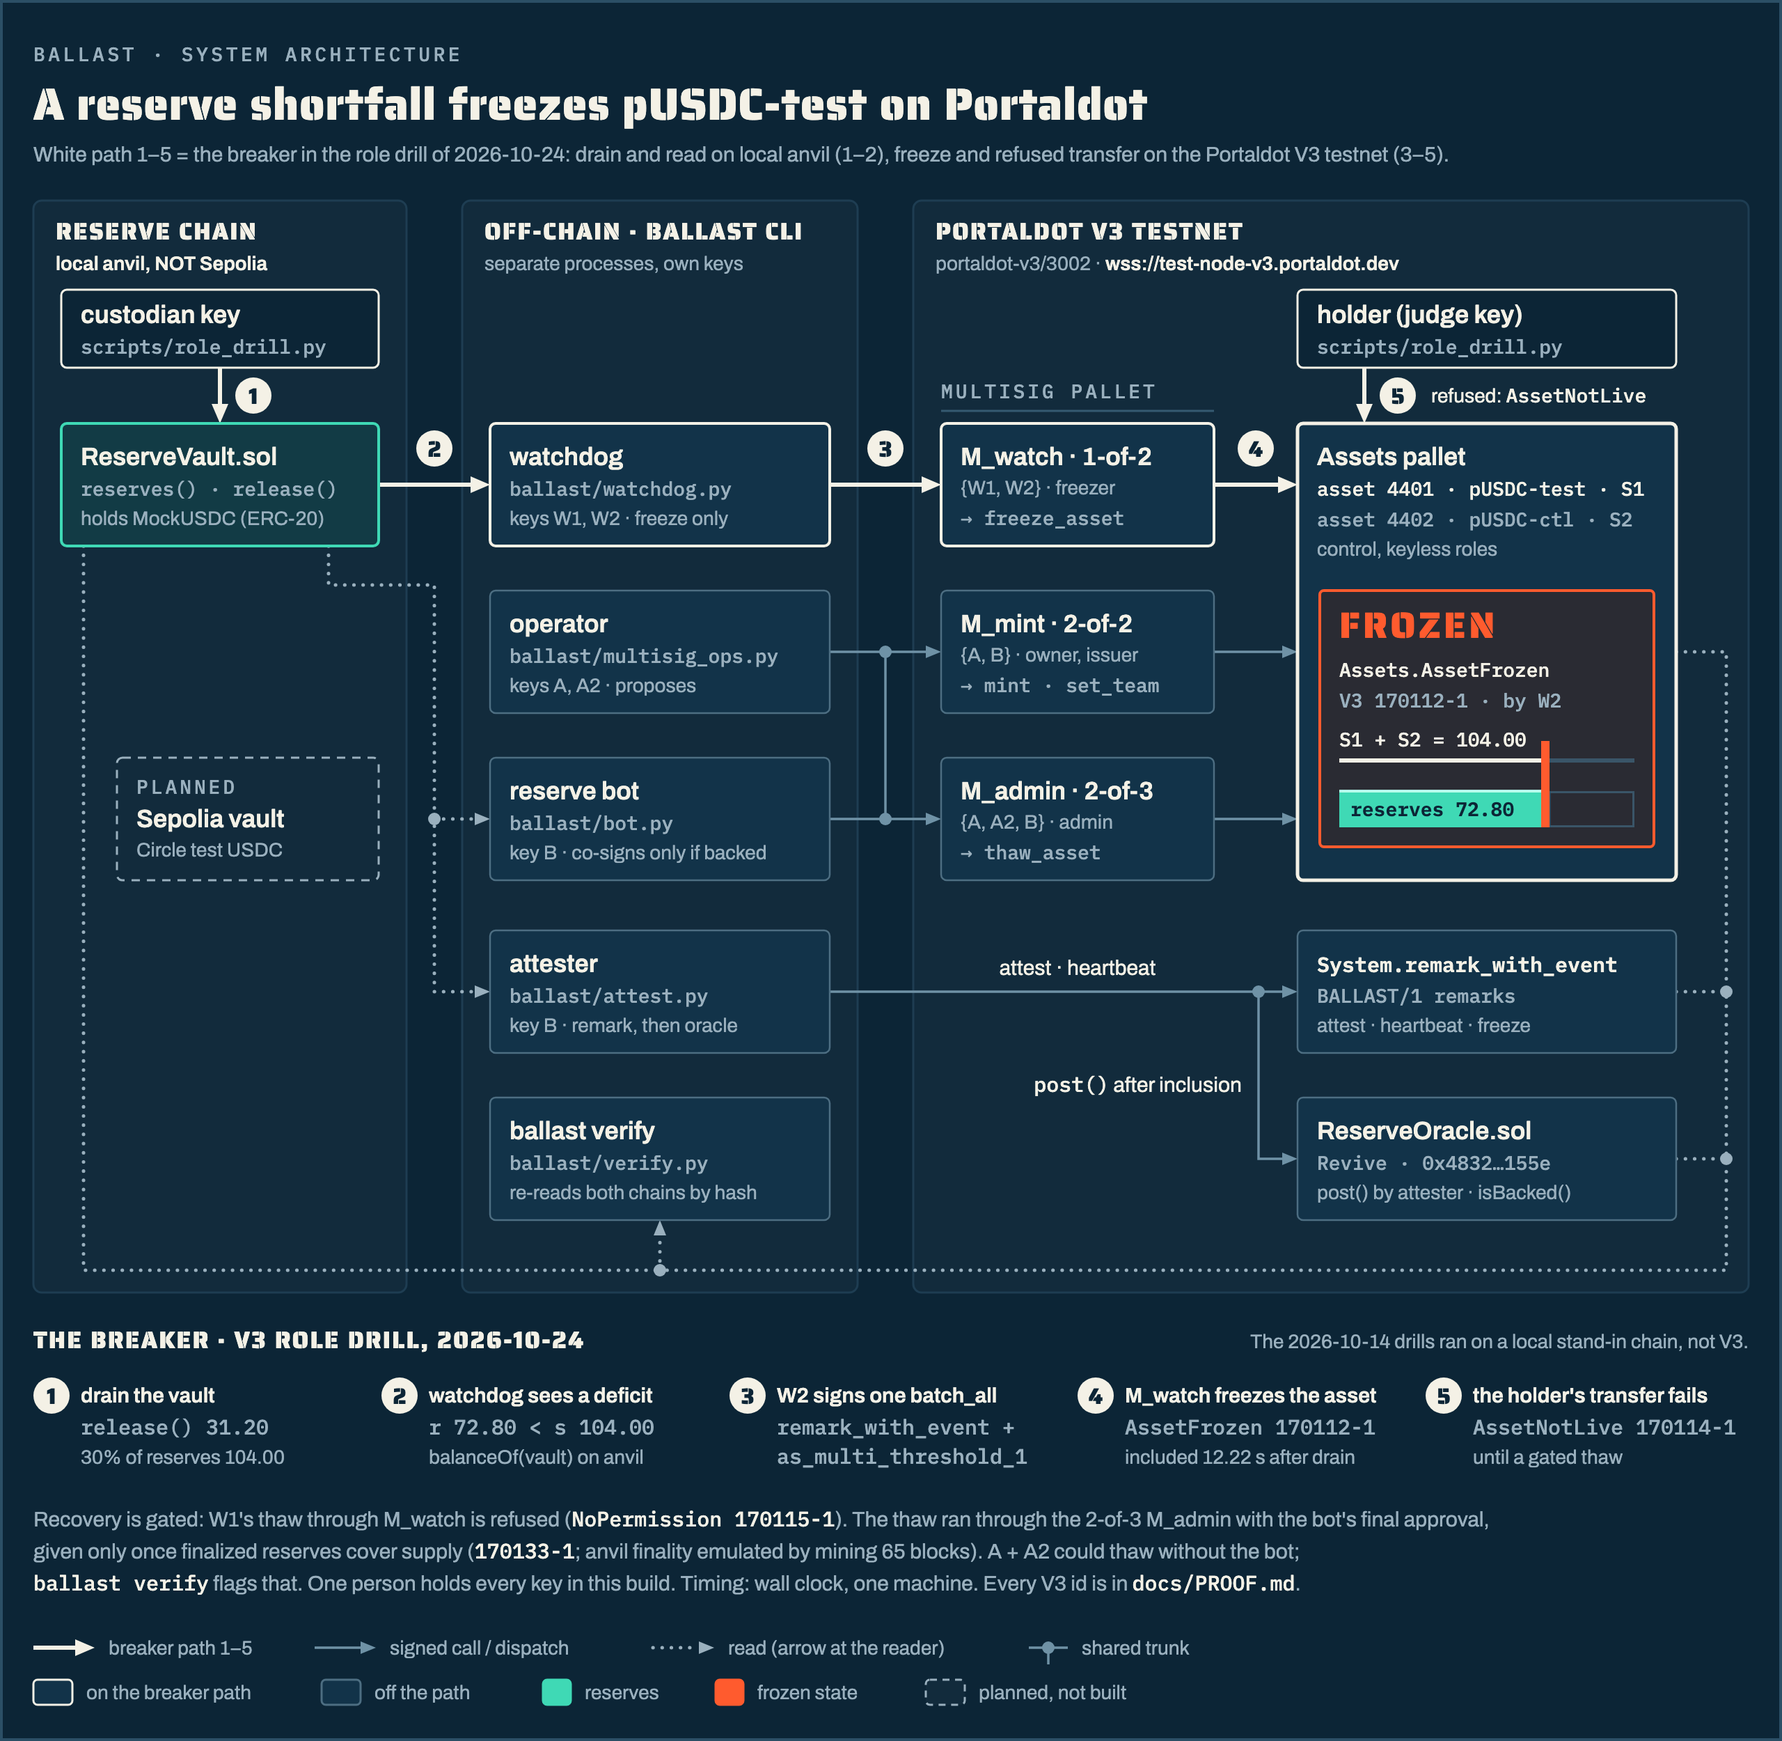
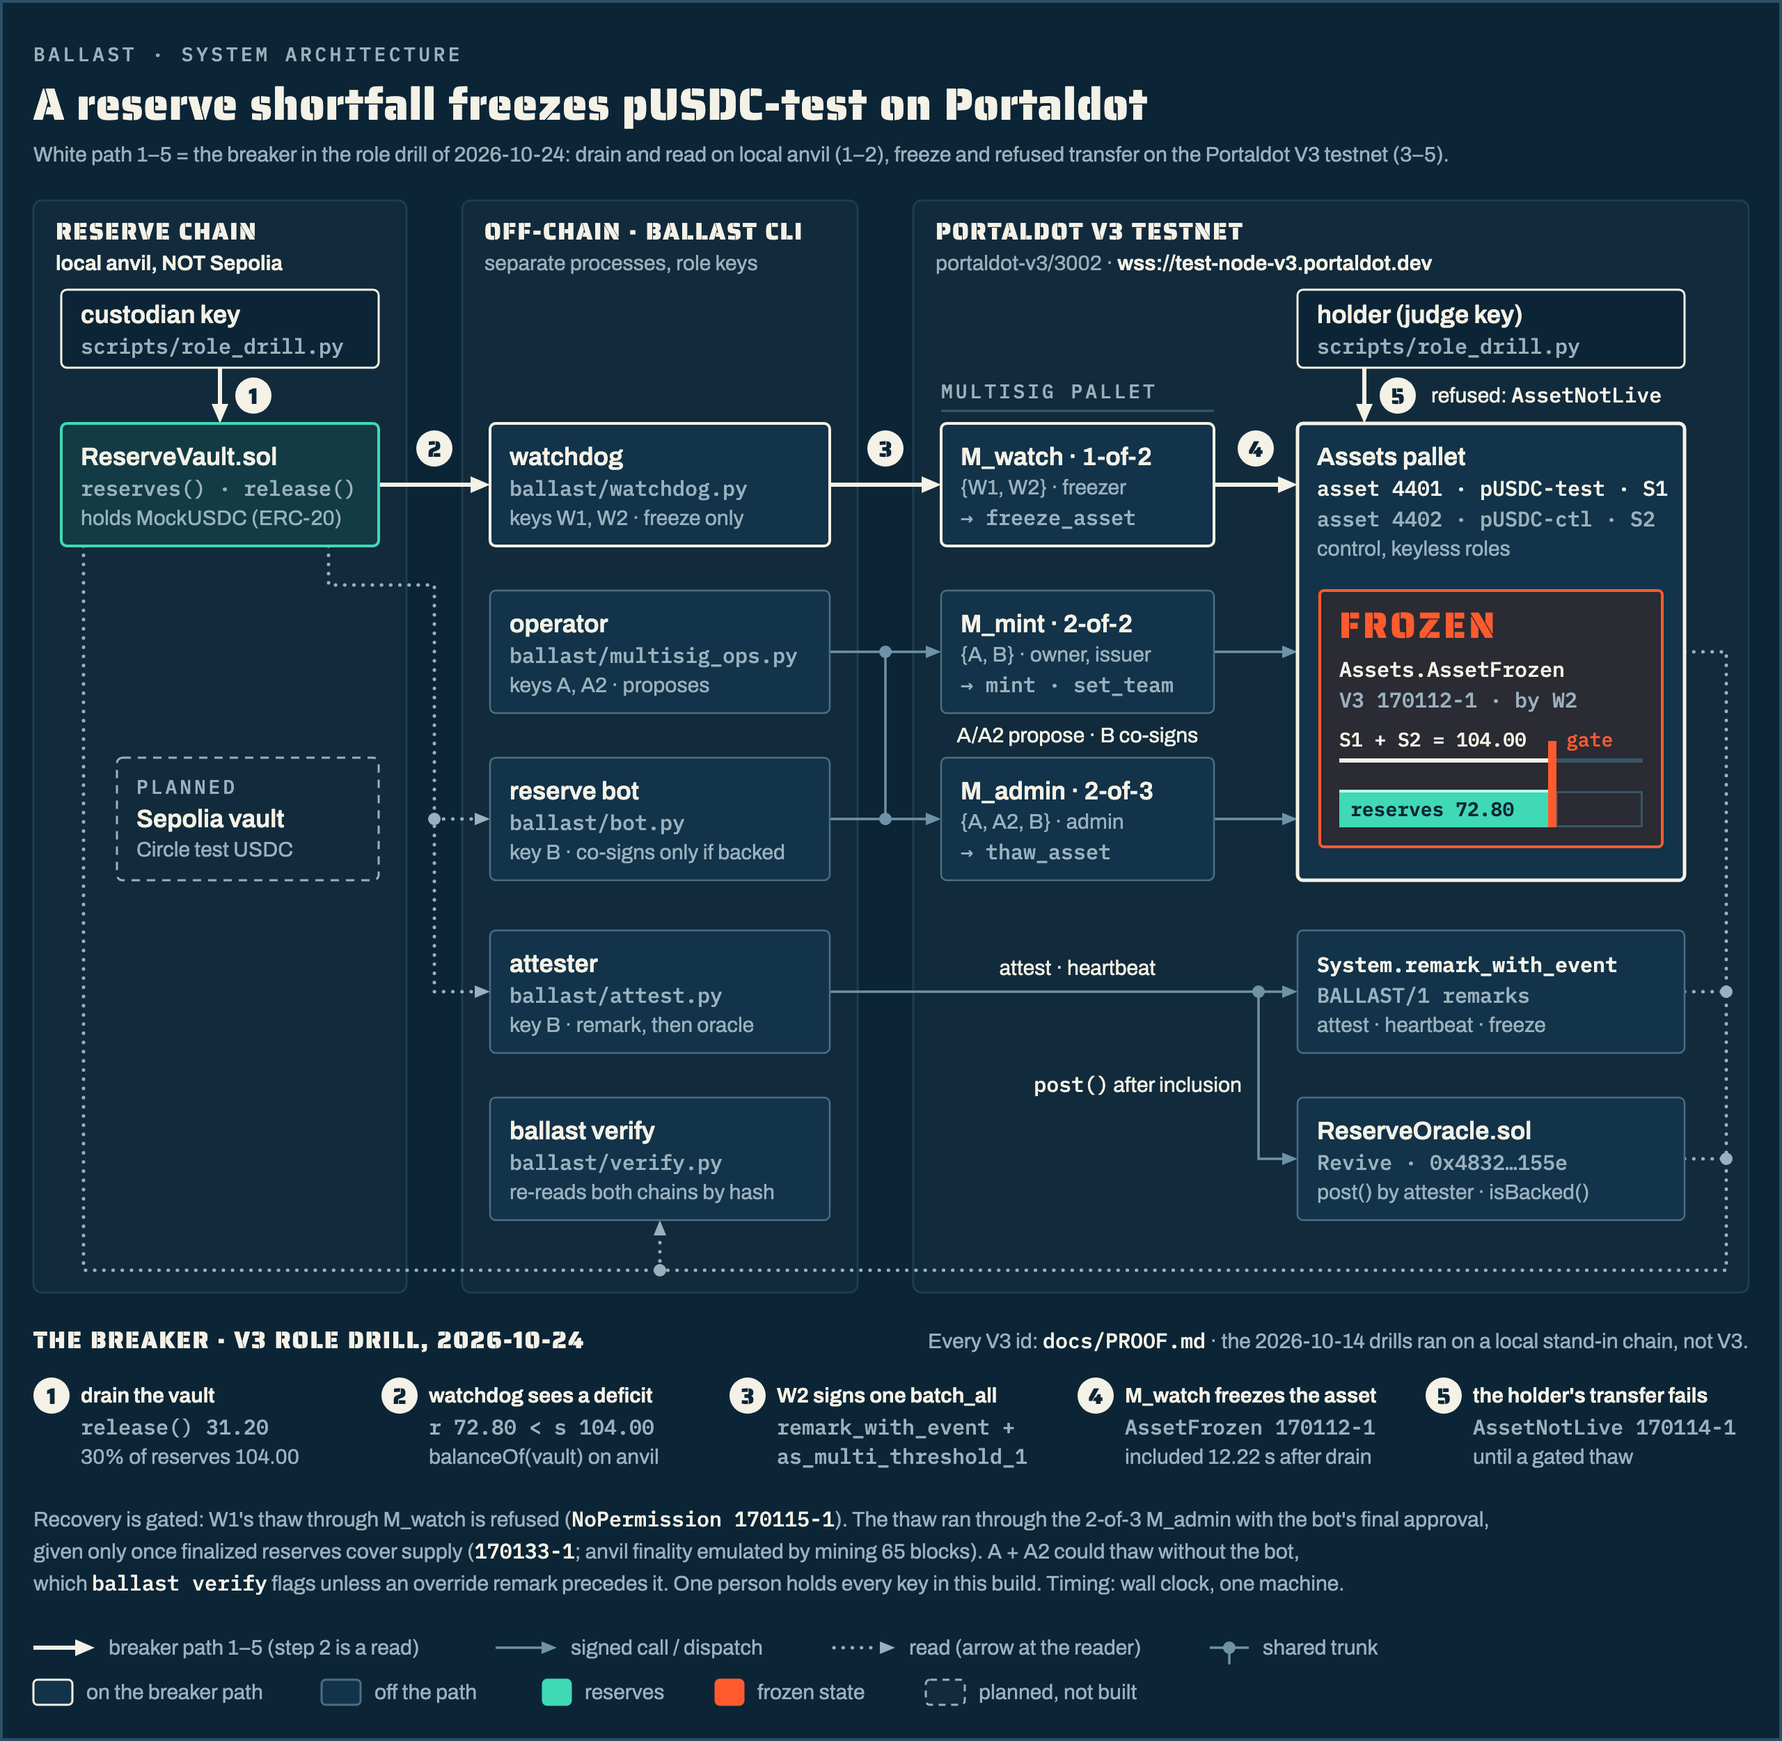
docs: architecture diagram QA pass 3
Secondary text at 15 px for README width; legend notes that step 2 is a
read; approvals labelled (A/A2 propose, B co-signs); the gauge gate is
labelled; the off-chain zone says role keys; the note says verify flags a
thaw without the bot unless an override remark precedes it. Single approved
Google Fonts stylesheet link, no preconnects.

diff --git a/docs/architecture.html b/docs/architecture.html
@@ -4,8 +4,6 @@
 <meta charset="UTF-8">
 <meta name="viewport" content="width=device-width, initial-scale=1.0">
 <title>Ballast architecture</title>
-<link rel="preconnect" href="https://fonts.googleapis.com">
-<link rel="preconnect" href="https://fonts.gstatic.com" crossorigin>
 <link href="https://fonts.googleapis.com/css2?family=Saira+Stencil+One&family=Archivo:wght@400;600&family=IBM+Plex+Mono:wght@500;600&display=swap" rel="stylesheet">
 <style>
   *, *::before, *::after { box-sizing: border-box; margin: 0; padding: 0; }
@@ -17,29 +15,31 @@
   .t-title { font: 400 32px 'Saira Stencil One', 'Big Shoulders Stencil Display', Impact, sans-serif; fill: #F4F1E6; letter-spacing: 0.01em; }
   .t-lede { font: 400 15px Archivo, 'Helvetica Neue', Arial, sans-serif; fill: #9AB0BE; }
   .t-zone { font: 400 17px 'Saira Stencil One', 'Big Shoulders Stencil Display', Impact, sans-serif; fill: #F4F1E6; letter-spacing: 0.06em; }
-  .t-zonesub { font: 400 14px Archivo, 'Helvetica Neue', Arial, sans-serif; fill: #9AB0BE; }
+  .t-zonesub { font: 400 15px Archivo, 'Helvetica Neue', Arial, sans-serif; fill: #9AB0BE; }
   .t-zonesub tspan.flag { fill: #F4F1E6; font-weight: 600; }
   .t-name { font: 600 18px Archivo, 'Helvetica Neue', Arial, sans-serif; fill: #F4F1E6; }
   .t-name-code { font: 600 15px 'IBM Plex Mono', ui-monospace, Menlo, monospace; fill: #F4F1E6; }
-  .t-sub { font: 400 14px Archivo, 'Helvetica Neue', Arial, sans-serif; fill: #9AB0BE; }
-  .t-code { font: 500 14px 'IBM Plex Mono', ui-monospace, Menlo, monospace; fill: #9AB0BE; }
-  .t-code-ink { font: 500 14px 'IBM Plex Mono', ui-monospace, Menlo, monospace; fill: #F4F1E6; }
+  .t-sub { font: 400 15px Archivo, 'Helvetica Neue', Arial, sans-serif; fill: #9AB0BE; }
+  .t-code { font: 500 15px 'IBM Plex Mono', ui-monospace, Menlo, monospace; fill: #9AB0BE; }
+  .t-code-ink { font: 500 15px 'IBM Plex Mono', ui-monospace, Menlo, monospace; fill: #F4F1E6; }
   .t-tag { font: 500 14px 'IBM Plex Mono', ui-monospace, Menlo, monospace; fill: #9AB0BE; letter-spacing: 0.14em; }
   .t-badge { font: 400 16px 'Saira Stencil One', 'Big Shoulders Stencil Display', Impact, sans-serif; fill: #0C2536; }
   .t-label { font: 400 15px Archivo, 'Helvetica Neue', Arial, sans-serif; fill: #F4F1E6; }
   .t-label tspan.code { font: 500 15px 'IBM Plex Mono', ui-monospace, Menlo, monospace; }
-  .t-refused { font: 400 14px Archivo, 'Helvetica Neue', Arial, sans-serif; fill: #F4F1E6; }
-  .t-refused tspan.code { font: 500 14px 'IBM Plex Mono', ui-monospace, Menlo, monospace; }
+  .t-refused { font: 400 15px Archivo, 'Helvetica Neue', Arial, sans-serif; fill: #F4F1E6; }
+  .t-refused tspan.code { font: 500 15px 'IBM Plex Mono', ui-monospace, Menlo, monospace; }
   .t-frozen { font: 400 26px 'Saira Stencil One', 'Big Shoulders Stencil Display', Impact, sans-serif; fill: #FF5B2E; letter-spacing: 0.08em; }
   .t-gauge { font: 500 14px 'IBM Plex Mono', ui-monospace, Menlo, monospace; fill: #F4F1E6; }
+  .t-gate { font: 500 14px 'IBM Plex Mono', ui-monospace, Menlo, monospace; fill: #FF5B2E; }
   .t-gauge-water { font: 600 14px 'IBM Plex Mono', ui-monospace, Menlo, monospace; fill: #0C2536; }
   .t-strip-head { font: 400 17px 'Saira Stencil One', 'Big Shoulders Stencil Display', Impact, sans-serif; fill: #F4F1E6; letter-spacing: 0.06em; }
   .t-step { font: 600 15px Archivo, 'Helvetica Neue', Arial, sans-serif; fill: #F4F1E6; }
   .t-step-code { font: 500 15px 'IBM Plex Mono', ui-monospace, Menlo, monospace; fill: #9AB0BE; }
-  .t-step-sub { font: 400 14px Archivo, 'Helvetica Neue', Arial, sans-serif; fill: #9AB0BE; }
+  .t-step-sub { font: 400 15px Archivo, 'Helvetica Neue', Arial, sans-serif; fill: #9AB0BE; }
   .t-note { font: 400 15px Archivo, 'Helvetica Neue', Arial, sans-serif; fill: #9AB0BE; }
   .t-note tspan.code { font: 500 15px 'IBM Plex Mono', ui-monospace, Menlo, monospace; fill: #F4F1E6; }
-  .t-legend { font: 400 14px Archivo, 'Helvetica Neue', Arial, sans-serif; fill: #9AB0BE; }
+  .t-legend { font: 400 15px Archivo, 'Helvetica Neue', Arial, sans-serif; fill: #9AB0BE; }
+  .t-legend tspan.code { font: 500 15px 'IBM Plex Mono', ui-monospace, Menlo, monospace; fill: #F4F1E6; }
 </style>
 </head>
 <body>
@@ -62,7 +62,7 @@
 <text x="40" y="194" class="t-zonesub"><tspan class="flag">local anvil, NOT Sepolia</tspan></text>
 <rect x="332" y="144" width="284" height="784" rx="6" fill="#122B3C" stroke="#1E3D52" stroke-width="1.5"/>
 <text x="348" y="172" class="t-zone">OFF-CHAIN · BALLAST CLI</text>
-<text x="348" y="194" class="t-zonesub">separate processes, own keys</text>
+<text x="348" y="194" class="t-zonesub">separate processes, role keys</text>
 <rect x="656" y="144" width="600" height="784" rx="6" fill="#122B3C" stroke="#1E3D52" stroke-width="1.5"/>
 <text x="672" y="172" class="t-zone">PORTALDOT V3 TESTNET</text>
 <text x="672" y="194" class="t-zonesub">portaldot-v3/3002 · <tspan class="flag">wss://test-node-v3.portaldot.dev</tspan></text>
@@ -81,9 +81,9 @@
 <path d="M596,712 L921,712" fill="none" stroke="#6F92A6" stroke-width="1.75" stroke-linejoin="miter" data-edge="att-remark" data-style="call" stroke-linecap="butt" marker-end="url(#m-call)"/>
 <path d="M904,712 L904,832 L921,832" fill="none" stroke="#6F92A6" stroke-width="1.75" stroke-linejoin="miter" data-edge="att-oracle" data-style="call" stroke-linecap="butt" marker-end="url(#m-call)"/>
 <path d="M60,392 L60,912 L474,912" fill="none" stroke="#9AB0BE" stroke-width="2.5" stroke-linejoin="miter" data-edge="v-vault" data-style="read" stroke-linecap="round" stroke-dasharray="0.1 6.5"/>
-<path d="M1204,468 L1240,468 L1240,912 L474,912" fill="none" stroke="#9AB0BE" stroke-width="2.5" stroke-linejoin="miter" data-edge="v-portaldot" data-style="read" stroke-linecap="round" stroke-dasharray="0.1 6.5"/>
-<path d="M1204,712 L1240,712" fill="none" stroke="#9AB0BE" stroke-width="2.5" stroke-linejoin="miter" data-edge="v-remark" data-style="read" stroke-linecap="round" stroke-dasharray="0.1 6.5"/>
-<path d="M1204,832 L1240,832" fill="none" stroke="#9AB0BE" stroke-width="2.5" stroke-linejoin="miter" data-edge="v-oracle" data-style="read" stroke-linecap="round" stroke-dasharray="0.1 6.5"/>
+<path d="M1210,468 L1240,468 L1240,912 L474,912" fill="none" stroke="#9AB0BE" stroke-width="2.5" stroke-linejoin="miter" data-edge="v-portaldot" data-style="read" stroke-linecap="round" stroke-dasharray="0.1 6.5"/>
+<path d="M1210,712 L1240,712" fill="none" stroke="#9AB0BE" stroke-width="2.5" stroke-linejoin="miter" data-edge="v-remark" data-style="read" stroke-linecap="round" stroke-dasharray="0.1 6.5"/>
+<path d="M1210,832 L1240,832" fill="none" stroke="#9AB0BE" stroke-width="2.5" stroke-linejoin="miter" data-edge="v-oracle" data-style="read" stroke-linecap="round" stroke-dasharray="0.1 6.5"/>
 <path d="M474,912 L474,887" fill="none" stroke="#9AB0BE" stroke-width="2.5" stroke-linejoin="miter" data-edge="v-in" data-style="read" stroke-linecap="round" stroke-dasharray="0.1 6.5" marker-end="url(#m-read)"/>
 <circle cx="312" cy="588" r="4.5" fill="#9AB0BE"/>
 <circle cx="636" cy="468" r="4.5" fill="#6F92A6"/>
@@ -158,46 +158,48 @@
 <text x="690" y="617" class="t-code">→ thaw_asset</text>
 </g>
 <g data-node="holder">
-<rect data-box="holder" x="932" y="208" width="272" height="56" rx="4" fill="#0C2536" stroke="#F4F1E6" stroke-width="1.5"/>
+<rect data-box="holder" x="932" y="208" width="278" height="56" rx="4" fill="#0C2536" stroke="#F4F1E6" stroke-width="1.5"/>
 <text x="946" y="232" class="t-name">holder (judge key)</text>
 <text x="946" y="254" class="t-code">scripts/role_drill.py</text>
 </g>
 <g data-node="assets">
-<rect data-box="assets" x="932" y="304" width="272" height="328" rx="4" fill="#123349" stroke="#F4F1E6" stroke-width="2.5"/>
+<rect data-box="assets" x="932" y="304" width="278" height="328" rx="4" fill="#123349" stroke="#F4F1E6" stroke-width="2.5"/>
 <text x="946" y="334" class="t-name">Assets pallet</text>
 <text x="946" y="356" class="t-code-ink">asset 4401 · pUSDC-test · S1</text>
 <text x="946" y="378" class="t-code">asset 4402 · pUSDC-ctl · S2</text>
 <text x="946" y="399" class="t-sub">control, keyless roles</text>
 </g>
 <g data-node="remark">
-<rect data-box="remark" x="932" y="668" width="272" height="88" rx="4" fill="#123349" stroke="#4D6E82" stroke-width="1.25"/>
+<rect data-box="remark" x="932" y="668" width="278" height="88" rx="4" fill="#123349" stroke="#4D6E82" stroke-width="1.25"/>
 <text x="946" y="698" class="t-name-code">System.remark_with_event</text>
 <text x="946" y="720" class="t-code">BALLAST/1 remarks</text>
 <text x="946" y="741" class="t-sub">attest · heartbeat · freeze</text>
 </g>
 <g data-node="oracle">
-<rect data-box="oracle" x="932" y="788" width="272" height="88" rx="4" fill="#123349" stroke="#4D6E82" stroke-width="1.25"/>
+<rect data-box="oracle" x="932" y="788" width="278" height="88" rx="4" fill="#123349" stroke="#4D6E82" stroke-width="1.25"/>
 <text x="946" y="818" class="t-name">ReserveOracle.sol</text>
 <text x="946" y="840" class="t-code">Revive · 0x4832…155e</text>
 <text x="946" y="861" class="t-sub">post() by attester · isBacked()</text>
 </g>
 <g data-plate="frozen">
-<rect x="948" y="424" width="240" height="184" rx="3" fill="#2A2B33" stroke="#FF5B2E" stroke-width="2"/>
+<rect x="948" y="424" width="246" height="184" rx="3" fill="#2A2B33" stroke="#FF5B2E" stroke-width="2"/>
 <text x="962" y="458" class="t-frozen">FROZEN</text>
 <text x="962" y="486" class="t-code-ink">Assets.AssetFrozen</text>
 <text x="962" y="508" class="t-code">V3 170112-1 · by W2</text>
 <text x="962" y="536" class="t-gauge">S1 + S2 = 104.00</text>
-<line x1="962" y1="546" x2="1110" y2="546" stroke="#F4F1E6" stroke-width="3"/>
-<line x1="1110" y1="546" x2="1174" y2="546" stroke="#3A5568" stroke-width="3"/>
-<rect x="962" y="568" width="145" height="26" fill="#3FD9B5"/>
-<line x1="962" y1="568" x2="1107" y2="568" stroke="#B8FFEC" stroke-width="2"/>
-<rect x="1113" y="568.75" width="60.25" height="24.5" fill="none" stroke="#3A5568" stroke-width="1.5"/>
-<rect x="1107" y="532" width="6" height="62" fill="#FF5B2E"/>
+<line x1="962" y1="546" x2="1115" y2="546" stroke="#F4F1E6" stroke-width="3"/>
+<line x1="1115" y1="546" x2="1180" y2="546" stroke="#3A5568" stroke-width="3"/>
+<rect x="962" y="568" width="150" height="26" fill="#3FD9B5"/>
+<line x1="962" y1="568" x2="1112" y2="568" stroke="#B8FFEC" stroke-width="2"/>
+<rect x="1118" y="568.75" width="61.25" height="24.5" fill="none" stroke="#3A5568" stroke-width="1.5"/>
+<rect x="1112" y="532" width="6" height="62" fill="#FF5B2E"/>
 <text x="970" y="586" class="t-gauge-water">reserves 72.80</text>
+<text x="1125" y="536" class="t-gate">gate</text>
 </g>
 <text x="676" y="286" class="t-tag">MULTISIG PALLET</text>
 <line x1="676" y1="295" x2="872" y2="295" stroke="#355A70" stroke-width="1.5"/>
 <text x="774" y="700" class="t-label" text-anchor="middle">attest · heartbeat</text>
+<text x="774" y="533" class="t-label" text-anchor="middle">A/A2 propose · B co-signs</text>
 <text x="892" y="784" class="t-label" text-anchor="end"><tspan class="code">post()</tspan> after inclusion</text>
 <text x="1028" y="289" class="t-refused">refused: <tspan class="code">AssetNotLive</tspan></text>
 <g data-badge="1"><circle cx="182" cy="284" r="13" fill="#F4F1E6"/><text x="182" y="290" class="t-badge" text-anchor="middle">1</text></g>
@@ -206,7 +208,7 @@
 <g data-badge="4"><circle cx="902" cy="322" r="13" fill="#F4F1E6"/><text x="902" y="328" class="t-badge" text-anchor="middle">4</text></g>
 <g data-badge="5"><circle cx="1004" cy="284" r="13" fill="#F4F1E6"/><text x="1004" y="290" class="t-badge" text-anchor="middle">5</text></g>
 <text x="24" y="968" class="t-strip-head">THE BREAKER · V3 ROLE DRILL, 2026-10-24</text>
-<text x="1256" y="968" class="t-legend" text-anchor="end">The 2026-10-14 drills ran on a local stand-in chain, not V3.</text>
+<text x="1256" y="968" class="t-legend" text-anchor="end">Every V3 id: <tspan class="code">docs/PROOF.md</tspan> · the 2026-10-14 drills ran on a local stand-in chain, not V3.</text>
 <g data-step="1">
 <g data-badge="1"><circle cx="37" cy="1002" r="13" fill="#F4F1E6"/><text x="37" y="1008" class="t-badge" text-anchor="middle">1</text></g>
 <text x="58" y="1007" class="t-step">drain the vault</text>
@@ -238,16 +240,16 @@
 <text x="1058" y="1051" class="t-step-sub">until a gated thaw</text>
 </g>
 <text x="24" y="1096" class="t-note">Recovery is gated: W1's thaw through M_watch is refused (<tspan class="code">NoPermission 170115-1</tspan>). The thaw ran through the 2-of-3 M_admin with the bot's final approval,</text>
-<text x="24" y="1119" class="t-note">given only once finalized reserves cover supply (<tspan class="code">170133-1</tspan>; anvil finality emulated by mining 65 blocks). A + A2 could thaw without the bot;</text>
-<text x="24" y="1142" class="t-note"><tspan class="code">ballast verify</tspan> flags that. One person holds every key in this build. Timing: wall clock, one machine. Every V3 id is in <tspan class="code">docs/PROOF.md</tspan>.</text>
+<text x="24" y="1119" class="t-note">given only once finalized reserves cover supply (<tspan class="code">170133-1</tspan>; anvil finality emulated by mining 65 blocks). A + A2 could thaw without the bot,</text>
+<text x="24" y="1142" class="t-note">which <tspan class="code">ballast verify</tspan> flags unless an override remark precedes it. One person holds every key in this build. Timing: wall clock, one machine.</text>
 <line x1="24" y1="1183" x2="54" y2="1183" stroke="#F4F1E6" stroke-width="3" marker-end="url(#m-core)"/>
-<text x="78" y="1188" class="t-legend">breaker path 1–5</text>
-<line x1="226" y1="1183" x2="259" y2="1183" stroke="#6F92A6" stroke-width="1.75" marker-end="url(#m-call)"/>
-<text x="280" y="1188" class="t-legend">signed call / dispatch</text>
-<line x1="469" y1="1183" x2="502" y2="1183" stroke="#9AB0BE" stroke-width="2.5" stroke-dasharray="0.1 6.5" stroke-linecap="round" marker-end="url(#m-read)"/>
-<text x="523" y="1188" class="t-legend">read (arrow at the reader)</text>
-<line x1="739" y1="1183" x2="767" y2="1183" stroke="#6F92A6" stroke-width="1.75"/><line x1="753" y1="1183" x2="753" y2="1195" stroke="#6F92A6" stroke-width="1.75"/><circle cx="753" cy="1183" r="4.5" fill="#6F92A6"/>
-<text x="777" y="1188" class="t-legend">shared trunk</text>
+<text x="78" y="1188" class="t-legend">breaker path 1–5 (step 2 is a read)</text>
+<line x1="356" y1="1183" x2="389" y2="1183" stroke="#6F92A6" stroke-width="1.75" marker-end="url(#m-call)"/>
+<text x="410" y="1188" class="t-legend">signed call / dispatch</text>
+<line x1="599" y1="1183" x2="632" y2="1183" stroke="#9AB0BE" stroke-width="2.5" stroke-dasharray="0.1 6.5" stroke-linecap="round" marker-end="url(#m-read)"/>
+<text x="653" y="1188" class="t-legend">read (arrow at the reader)</text>
+<line x1="869" y1="1183" x2="897" y2="1183" stroke="#6F92A6" stroke-width="1.75"/><line x1="883" y1="1183" x2="883" y2="1195" stroke="#6F92A6" stroke-width="1.75"/><circle cx="883" cy="1183" r="4.5" fill="#6F92A6"/>
+<text x="907" y="1188" class="t-legend">shared trunk</text>
 <rect x="24" y="1206" width="28" height="18" rx="3" fill="#123349" stroke="#F4F1E6" stroke-width="1.5"/>
 <text x="62" y="1220" class="t-legend">on the breaker path</text>
 <rect x="231" y="1206" width="28" height="18" rx="3" fill="#123349" stroke="#4D6E82" stroke-width="1.5"/>
